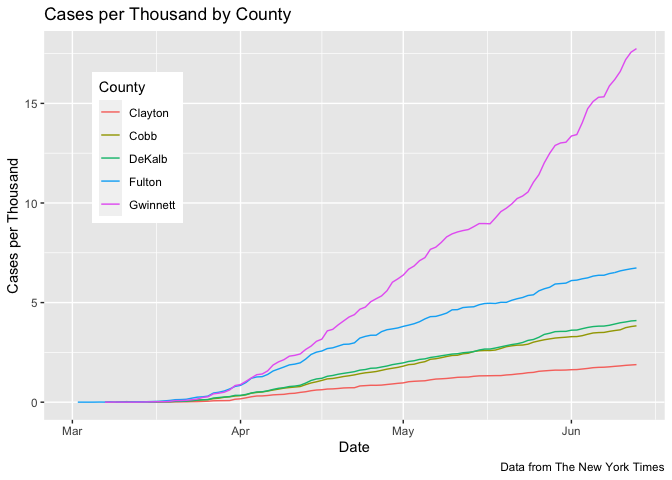
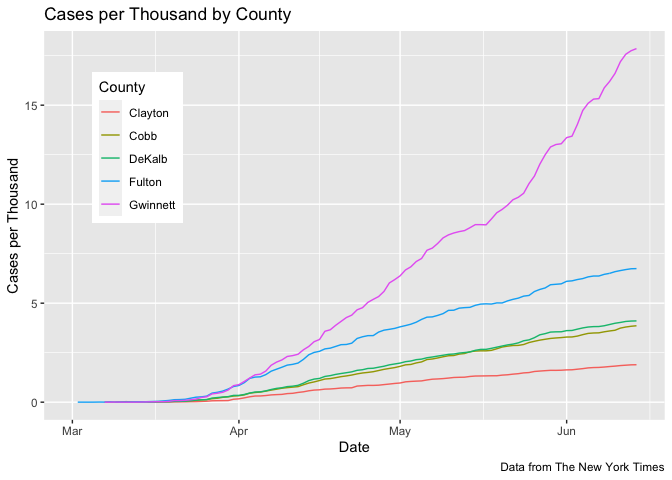
Cleaned up code with plot functions

diff --git a/Metro_Atlanta_COVID.md b/Metro_Atlanta_COVID.md
@@ -14,7 +14,7 @@ It’s hard to know how to interpret these numbers since there are major
 known unknowns. Neither confirmed cases nor deaths can be said to be
 reliable counts of the true numbers.
 
-Data current as of June 14, 2020.
+Data current as of June 16, 2020.
 
 # Metro Atlanta
 
